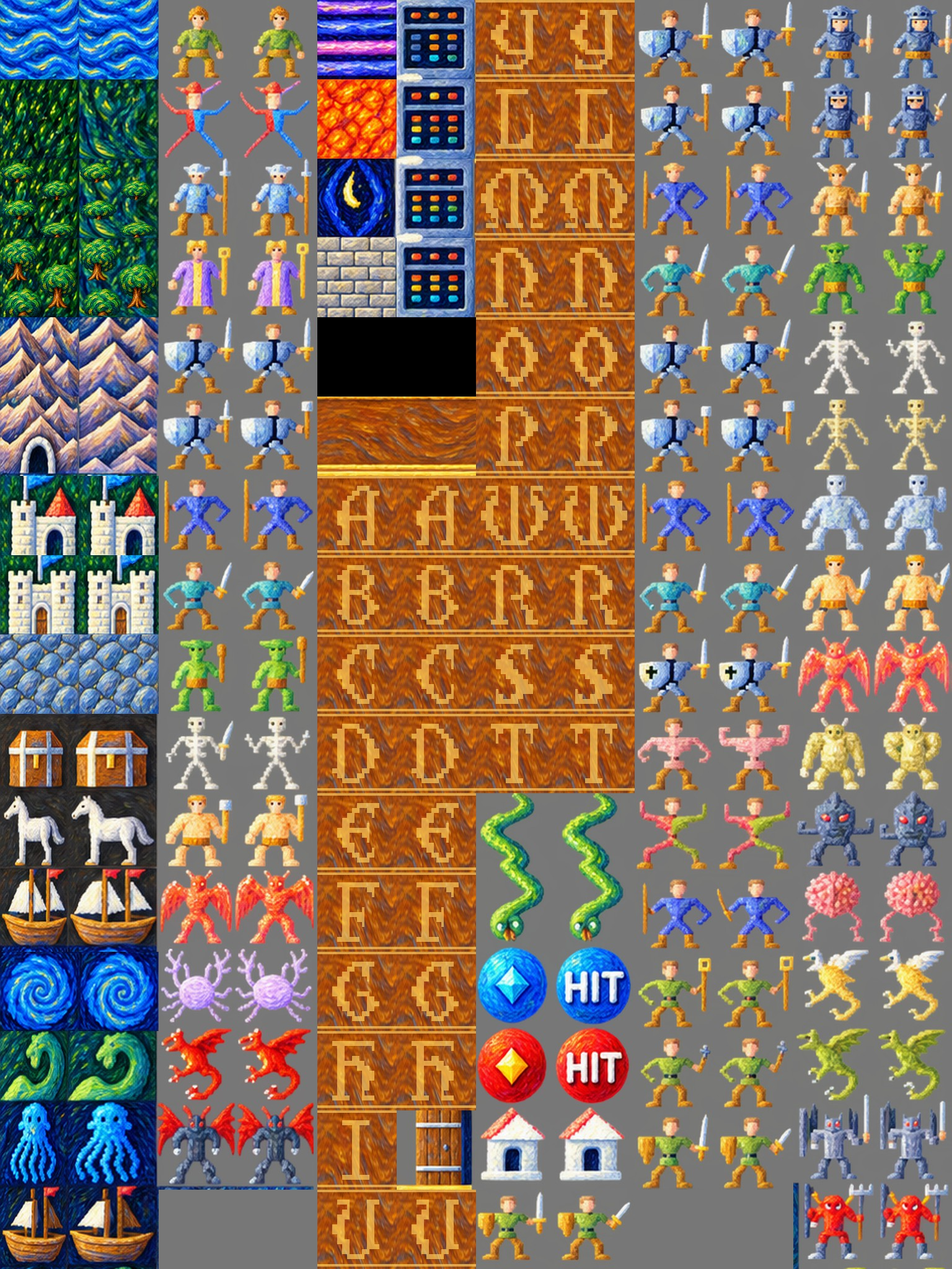
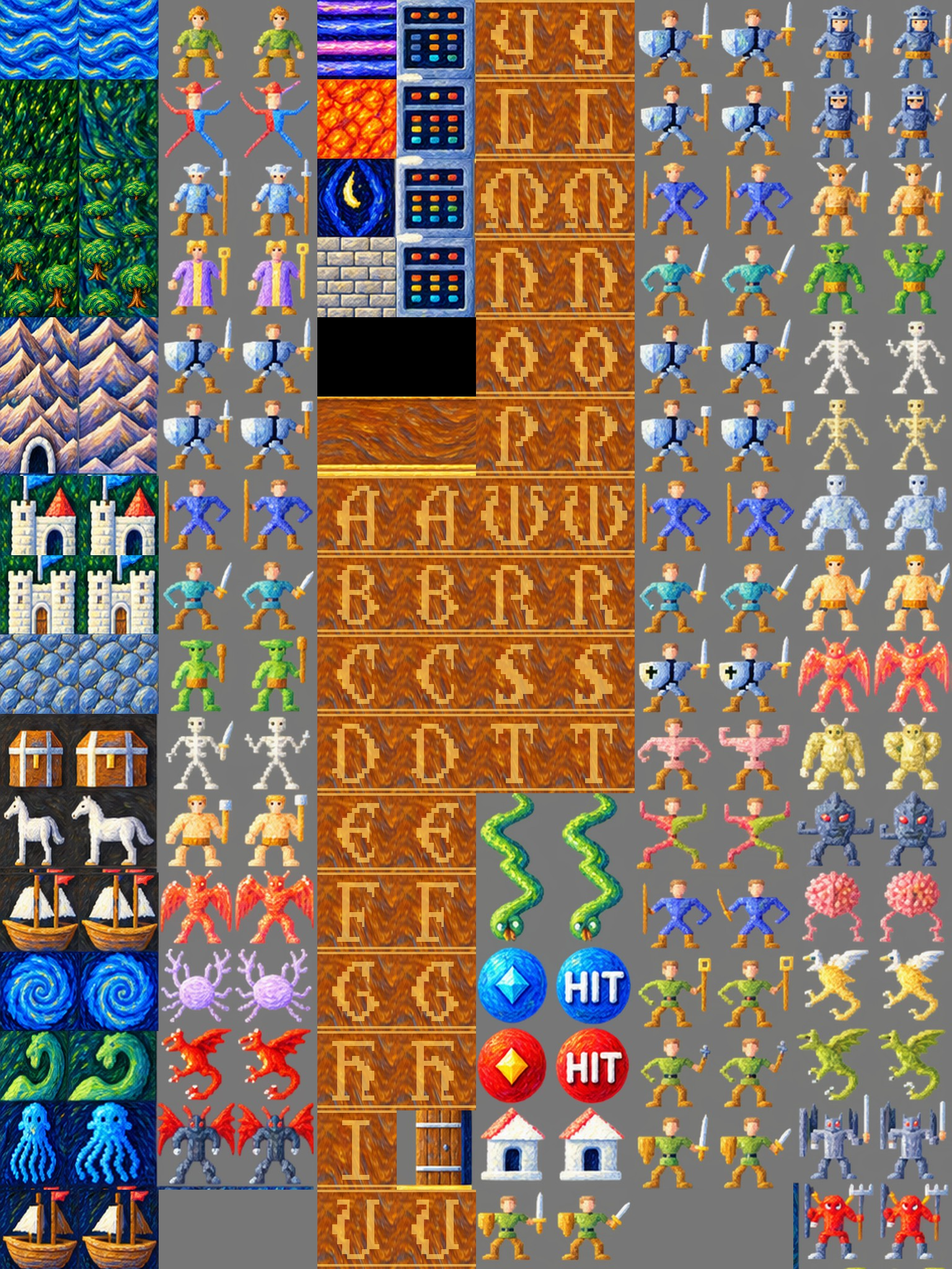
Keep Van Gogh ship geometry fixed during flag animation

Changed region(s): [[0.0, 0.9375, 0.1875, 1.0], [0.0, 0.6875, 0.1875, 0.75]]

diff --git a/web/tests/expandedArt.test.ts b/web/tests/expandedArt.test.ts
@@ -98,6 +98,27 @@ describe('opt-in Van Gogh art package', () => {
     for (let index = 16; index <= 23; index++)
       for (let y = 0; y < 128; y++) for (const x of [126, 127]) expect(atlas(3 * 128 + x, (index % 16) * 128 + y)[3]).toBe(0);
   });
+  it('keeps frigate and pirate hulls, masts, sails and backgrounds fixed while only red flag cloth animates', () => {
+    const atlas = rgba('Tiles');
+    for (const index of [11, 15]) {
+      let changed = 0;
+      for (let y = 0; y < 128; y++)
+        for (let x = 0; x < 128; x++) {
+          const a = atlas(x, index * 128 + y),
+            b = atlas(128 + x, index * 128 + y);
+          if (!a.equals(b)) {
+            expect(x >= 82 && x < 124 && y < 26).toBe(true);
+            expect(a[0]).toBeGreaterThan(150);
+            expect(a[0]).toBeGreaterThan(a[1] * 1.8);
+            expect(a[0]).toBeGreaterThan(a[2] * 1.7);
+            changed++;
+          }
+        }
+      expect(changed).toBeGreaterThan(20);
+    }
+    // The frigate's bottom edge must not include the blue whirlpool below it.
+    for (const x of [8, 32, 64, 96, 120]) expect(atlas(x, 11 * 128 + 127)[2]).toBeLessThan(120);
+  });
   it('keeps both whirlpool frames inside their row, without the green serpent tile bleeding below', () => {
     const atlas = rgba('Tiles');
     for (const frame of [0, 1])

diff --git a/web/tools/prepare-van-gogh.py b/web/tools/prepare-van-gogh.py
@@ -52,6 +52,23 @@ for frame in range(2):
     whirlpool.putalpha(255)
     put(12,frame,whirlpool)
 
+# Both ship rows use equal 88px cells rather than the general column seams.
+# Reuse one complete painting per ship: generated alternate hulls/masts differ.
+# Only existing red flag-cloth strokes move; no boat geometry or water shifts.
+ship_specs = {11: (0,862,88,940), 15: (0,1172,88,1248)}
+for index,crop in ship_specs.items():
+    base=draft.crop(crop).resize((N,N),Image.Resampling.LANCZOS)
+    alternate=base.copy()
+    def red_flag(pixel):
+        r,g,b,a=pixel
+        return a>0 and r>150 and r>g*1.8 and r>b*1.7
+    for y in range(26):
+        for x in range(82,124):
+            sy=max(0,min(25,y+round(2*math.sin((x-82)*0.22+0.8))))
+            if red_flag(base.getpixel((x,y))) and red_flag(base.getpixel((x,sy))):
+                alternate.putpixel((x,y),base.getpixel((x,sy)))
+    put(index,0,base);put(index,1,alternate)
+
 # Trim the draft's thin grid rules from continuous terrain. The unused second
 # water/floor frames must remain terrain too, rather than generated empty art.
 for index in [0,1,4,8,32,33,35,37]:
